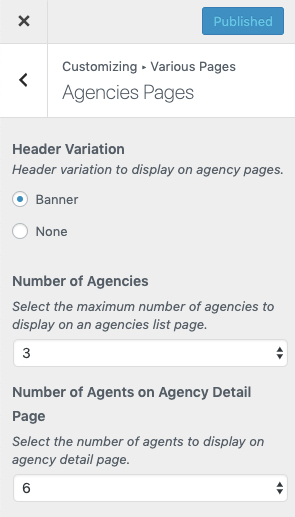
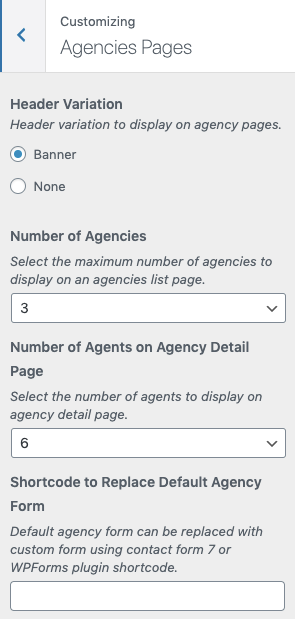
Updated agency related screenshots

diff --git a/docs/property-settings.md b/docs/property-settings.md
@@ -111,6 +111,9 @@ Please note that this note will be displayed on every property page.
     Please note that you have to Configure Google Maps API Key Settings in **Easy Real Estate → Settings → Maps** section to display the maps properly throughout your website.
 
 ## WalkScore
+
+**WalkScore Settings** can be found in **Dashboard → Real Homes → Customize Settings → Property Detail Page → WalkScore**.
+
 ![Property WalkScore](images/single-property-page/property-walkscore.png)
 
  **Classic**
@@ -121,7 +124,10 @@ Please note that this note will be displayed on every property page.
 
 ![Property WalkScore on Property Detail Page](images/single-property-page/property-walkscore-front-mod.png)
 
-## Nearby Places
+## Yelp Nearby Places
+
+**Yelp Nearby Places Settings** can be found in **Dashboard → Real Homes → Customize Settings → Property Detail Page → Yelp Nearby Places**.
+
 ![Property Nearby Places](images/single-property-page/property-nearby-places.png)
 
 ![Property Nearby Places on Property Detail Page](images/single-property-page/property-nearby-places-front.png)

diff --git a/docs/add-agency.md b/docs/add-agency.md
@@ -18,7 +18,9 @@ Go to **Dashboard → Easy Real Estate → Agencies → Add New** to add a new a
 
 - Provide the agency related information
 
-![Agency Information](images/add-content/agency-information.png)
+![Agency Contact Information](images/add-content/agency-information.png)
+
+![Agency Social Information](images/add-content/agency-information-2.png)
 
 ### Top Banner Settings
 
